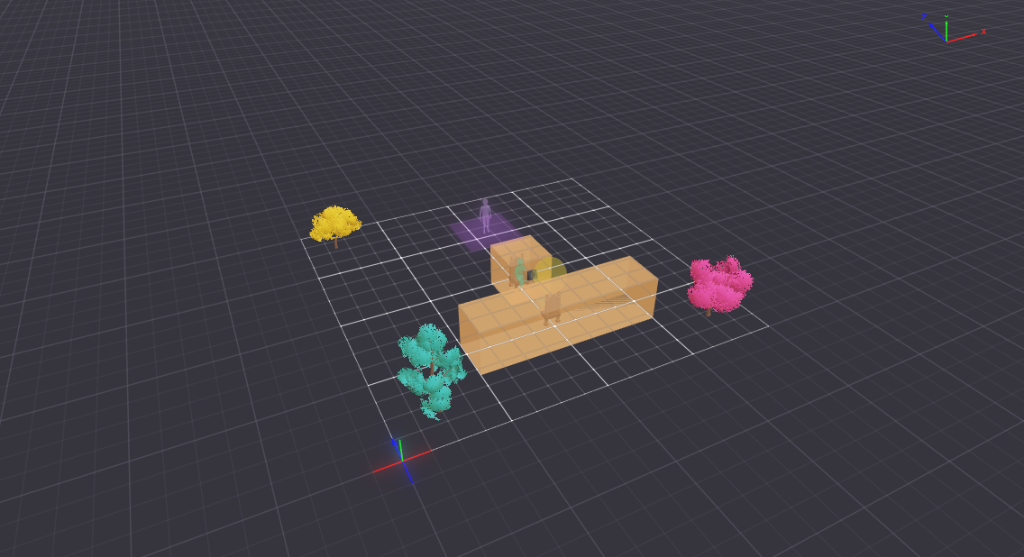
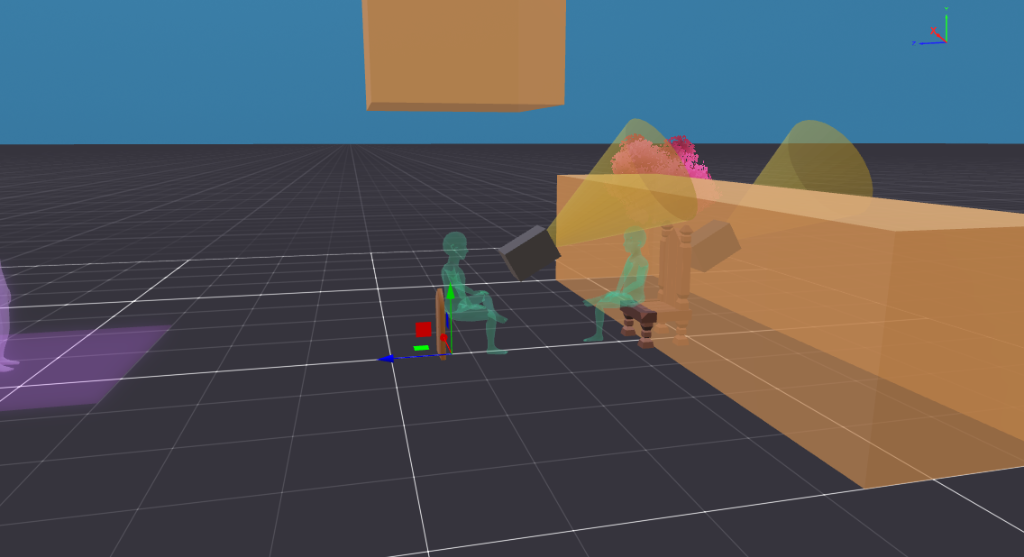
zcayel assets

diff --git a/src/scene.ts b/src/scene.ts
@@ -36,7 +36,7 @@ export function setupScene() {
   })
 
   GltfContainer.create(TABLE, {
-    src: 'assets/models/table.glb'
+    src: 'assets/models/Ftable.glb'
   })
 
   // WIZARD (hidden when local player is fortune teller)
@@ -72,17 +72,19 @@ export function setupScene() {
     src: 'assets/models/floor.glb'
   })
   Transform.create(TENT, {
-    position: Vector3.create(8, 0, 8)
+    position: Vector3.create(8, 0, 8),
+    scale: Vector3.create(1.9, 1.9, 1.9)
   })
   GltfContainer.create(TENT, {
-    src: 'assets/models/tent.glb'
+    src: 'assets/models/Ftellerstent.glb'
+    // src: 'assets/models/tent.glb'
   })
   Transform.create(LIGHTS_TENT, {
     position: Vector3.create(8, 0, 8)
   })
-  GltfContainer.create(LIGHTS_TENT, {
-    src: 'assets/models/lights_tent.glb'
-  })
+  // GltfContainer.create(LIGHTS_TENT, {
+  //   src: 'assets/models/lights_tent.glb'
+  // })
 
   // "Become Fortune Teller" animated prompt — hidden until player enters trigger
   Transform.create(BECOME_FORTUNE_TELLER_PROMPT, {